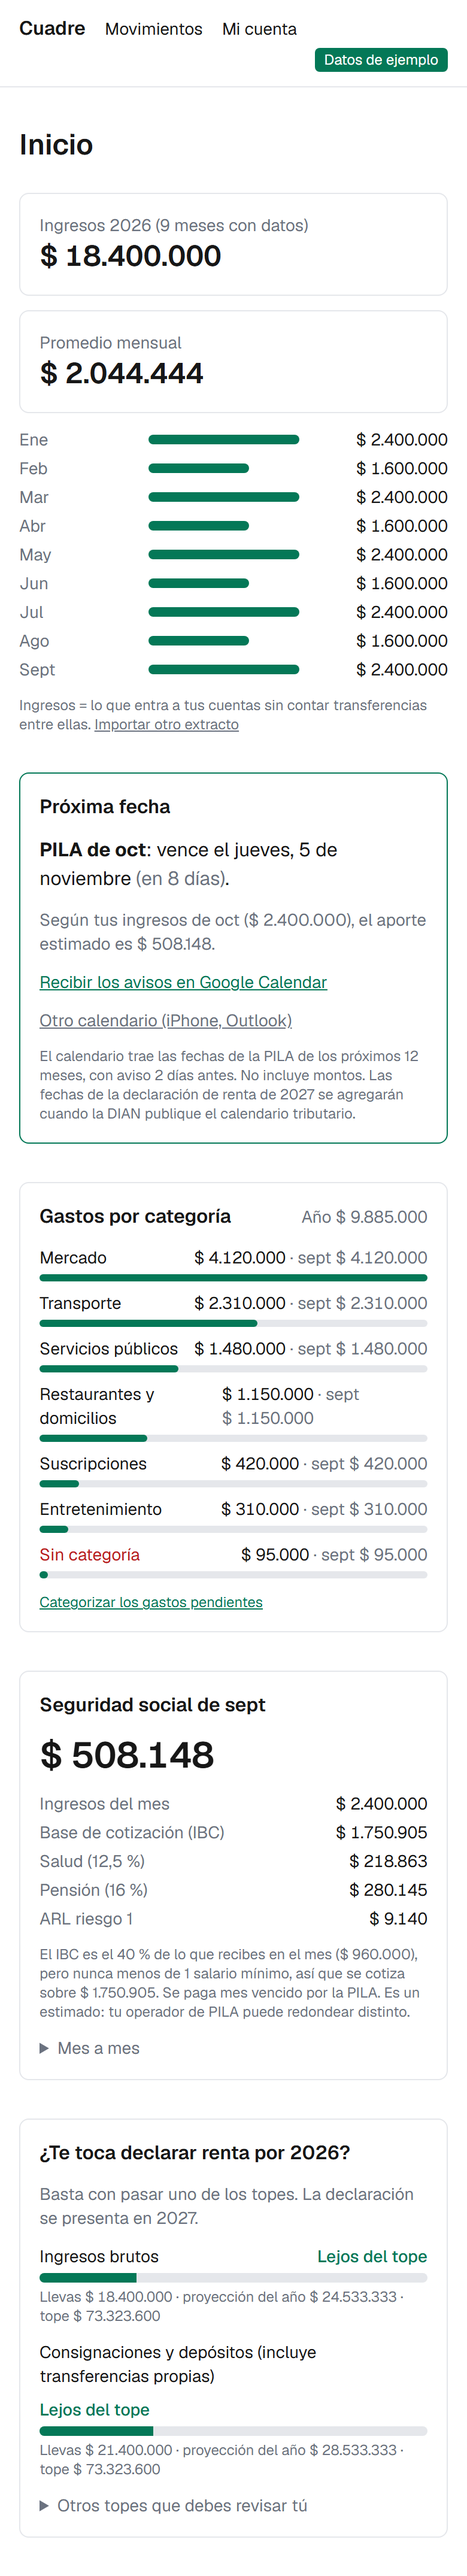
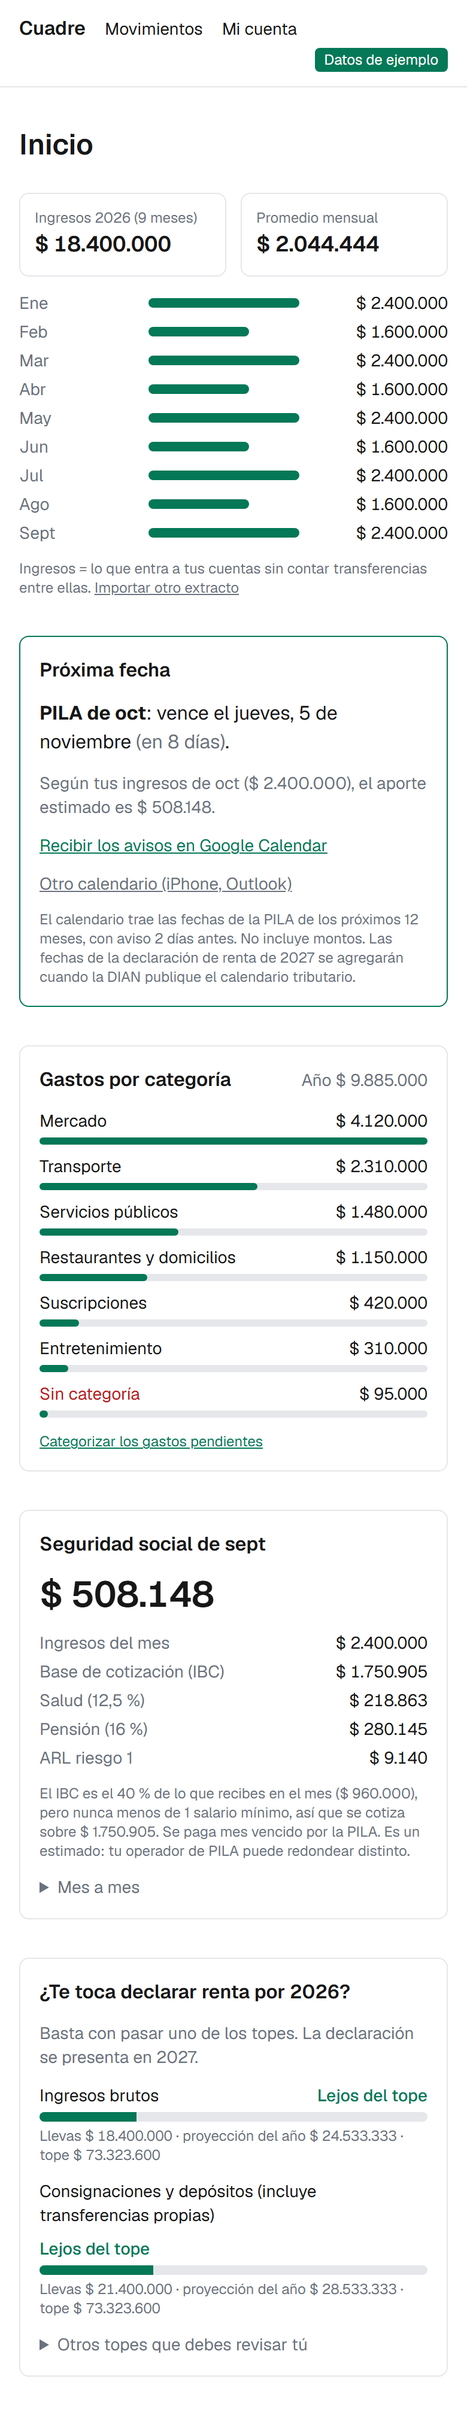
Mejoras para celular
- Movimientos: en el celular, comercio y monto arriba; día y categoría abajo
  (antes el selector aplastaba el nombre del comercio)
- Inicio: totales lado a lado, barras más compactas y sin la cifra del mes en
  gastos por categoría cuando no cabe
- Botón de comentarios solo con ícono en el celular, para no tapar contenido
- fieldset con min-w-0: los campos del onboarding ya no se salen del margen
- Selector de archivo con estilo; capturas del README actualizadas

diff --git a/src/app/(app)/movimientos/page.tsx b/src/app/(app)/movimientos/page.tsx
@@ -59,20 +59,27 @@ async function MovementList() {
             </div>
             <ul className="flex flex-col divide-y divide-border rounded-lg border border-border text-sm">
               {movements.map((m) => (
-                <li key={m.id} className="flex flex-wrap items-center gap-x-3 gap-y-1 px-4 py-2">
-                  <span className="text-muted tabular-nums">{m.occurred_on.slice(8)}</span>
-                  <span className="min-w-0 flex-1 truncate">{m.counterparty ?? "—"}</span>
-                  {m.kind === "expense" && m.counterparty ? (
-                    // La key lo vuelve a montar cuando la categoría cambia en el servidor.
-                    <CategorySelect key={m.category ?? ""} counterparty={m.counterparty} category={m.category} />
-                  ) : (
-                    <span className="text-muted">{m.category ?? KIND_LABELS[m.kind as keyof typeof KIND_LABELS]}</span>
-                  )}
+                // En el celular, dos líneas: comercio y monto arriba; día y categoría abajo.
+                <li
+                  key={m.id}
+                  className="grid grid-cols-[1fr_auto] items-center gap-x-3 gap-y-1 px-4 py-2 sm:grid-cols-[2rem_1fr_auto_auto]"
+                >
+                  <span className="hidden text-muted tabular-nums sm:inline">{m.occurred_on.slice(8)}</span>
+                  <span className="min-w-0 truncate">{m.counterparty ?? "—"}</span>
                   <span
-                    className={`tabular-nums ${m.kind === "own_transfer" ? "text-muted" : m.direction === "in" ? "text-accent" : ""}`}
+                    className={`text-right tabular-nums sm:order-last ${m.kind === "own_transfer" ? "text-muted" : m.direction === "in" ? "text-accent" : ""}`}
                   >
                     {m.direction === "in" ? "+" : "−"}
                     {formatCop(m.amount_cop)}
+                  </span>
+                  <span className="col-span-2 flex min-w-0 items-center gap-2 text-xs sm:col-span-1">
+                    <span className="text-muted tabular-nums sm:hidden">Día {Number(m.occurred_on.slice(8))} ·</span>
+                    {m.kind === "expense" && m.counterparty ? (
+                      // La key lo vuelve a montar cuando la categoría cambia en el servidor.
+                      <CategorySelect key={m.category ?? ""} counterparty={m.counterparty} category={m.category} />
+                    ) : (
+                      <span className="text-muted">{m.category ?? KIND_LABELS[m.kind as keyof typeof KIND_LABELS]}</span>
+                    )}
                   </span>
                 </li>
               ))}

diff --git a/src/app/(app)/inicio/cards.tsx b/src/app/(app)/inicio/cards.tsx
@@ -14,8 +14,8 @@ export function IncomeSection({ year, incomeByMonth }: { year: number; incomeByM
   const maxIncome = Math.max(...incomeByMonth.map((m) => m.income), 1);
   return (
     <section className="flex flex-col gap-3">
-      <div className="grid gap-3 sm:grid-cols-2">
-        <Stat label={`Ingresos ${year} (${months.length} ${months.length === 1 ? "mes" : "meses"} con datos)`} value={formatCop(incomeYtd)} />
+      <div className="grid grid-cols-2 gap-3">
+        <Stat label={`Ingresos ${year} (${months.length} ${months.length === 1 ? "mes" : "meses"})`} value={formatCop(incomeYtd)} />
         <Stat label="Promedio mensual" value={formatCop(Math.round(incomeYtd / months.length))} />
       </div>
       <ul className="flex flex-col gap-1 text-sm">
@@ -125,7 +125,10 @@ export function ExpensesCard({
               <span className={category === UNCATEGORIZED ? "text-danger" : ""}>{category}</span>
               <span className="tabular-nums">
                 {formatCop(total)}
-                <span className="text-muted"> · {lastMonthLabel.toLowerCase()} {formatCop(month.get(category) ?? 0)}</span>
+                <span className="hidden text-muted sm:inline">
+                  {" "}
+                  · {lastMonthLabel.toLowerCase()} {formatCop(month.get(category) ?? 0)}
+                </span>
               </span>
             </div>
             <div className="h-1.5 rounded bg-border">
@@ -296,9 +299,9 @@ export function Sources({ sources }: { sources: { key: string; norm: string; url
 
 export function Stat({ label, value }: { label: string; value: string }) {
   return (
-    <div className="rounded-lg border border-border p-4">
-      <p className="text-sm text-muted">{label}</p>
-      <p className="text-2xl font-semibold tabular-nums">{value}</p>
+    <div className="rounded-lg border border-border p-3 sm:p-4">
+      <p className="text-xs text-muted sm:text-sm">{label}</p>
+      <p className="text-lg font-semibold tabular-nums sm:text-2xl">{value}</p>
     </div>
   );
 }

diff --git a/src/app/(app)/onboarding/onboarding-form.tsx b/src/app/(app)/onboarding/onboarding-form.tsx
@@ -24,7 +24,7 @@ export function OnboardingForm({ defaults }: { defaults: OnboardingDefaults }) {
 
   return (
     <form action={action} className="flex flex-col gap-6">
-      <fieldset className="flex flex-col gap-4">
+      <fieldset className="min-w-0 flex flex-col gap-4">
         <legend className="mb-2 font-semibold">Tu situación</legend>
         <Field label="¿Cómo trabajas?" error={e.workerType}>
           <Select name="workerType" defaultValue={defaults.workerType} required>
@@ -59,7 +59,7 @@ export function OnboardingForm({ defaults }: { defaults: OnboardingDefaults }) {
         </Field>
       </fieldset>
 
-      <fieldset className="flex flex-col gap-4">
+      <fieldset className="min-w-0 flex flex-col gap-4">
         <legend className="mb-2 font-semibold">Lo que es tuyo</legend>
         <p className="text-sm text-muted">
           Con esto reconocemos cuándo mueves plata entre tus propias cuentas, para no contarlo como
@@ -88,7 +88,7 @@ export function OnboardingForm({ defaults }: { defaults: OnboardingDefaults }) {
         </div>
       </fieldset>
 
-      <fieldset className="flex flex-col gap-3 text-sm">
+      <fieldset className="min-w-0 flex flex-col gap-3 text-sm">
         <legend className="mb-2 font-semibold">Tus datos</legend>
         <label className="flex items-start gap-2">
           <input type="checkbox" name="privacyAccepted" defaultChecked={defaults.privacyAccepted} required className="mt-1" />

diff --git a/src/components/feedback-button.tsx b/src/components/feedback-button.tsx
@@ -47,9 +47,18 @@ export function FeedbackButton() {
       <button
         onClick={() => setOpen((o) => !o)}
         aria-expanded={open}
-        className="rounded-full border border-border bg-background px-4 py-2 text-sm shadow-md"
+        aria-label={open ? "Cerrar comentarios" : "Enviar comentarios"}
+        className="flex items-center gap-2 rounded-full border border-border bg-background p-3 text-sm shadow-md sm:px-4 sm:py-2"
       >
-        {open ? "Cerrar" : "Comentarios"}
+        {/* En el celular solo el ícono, para no tapar el contenido. */}
+        <svg width="18" height="18" viewBox="0 0 24 24" fill="none" stroke="currentColor" strokeWidth="2" aria-hidden="true">
+          {open ? (
+            <path d="M6 6l12 12M18 6L6 18" strokeLinecap="round" />
+          ) : (
+            <path d="M21 12a8 8 0 0 1-11.6 7.1L4 20l1-4.6A8 8 0 1 1 21 12z" strokeLinejoin="round" />
+          )}
+        </svg>
+        <span className="hidden sm:inline">{open ? "Cerrar" : "Comentarios"}</span>
       </button>
     </div>
   );

diff --git a/src/app/(app)/importar/statement-importer.tsx b/src/app/(app)/importar/statement-importer.tsx
@@ -159,7 +159,7 @@ function Preview({
       </div>
 
       {(count("wallet_transfer") > 0 || personNames.length > 0) && (
-        <fieldset className="flex flex-col gap-3 rounded-lg border border-border p-4 text-sm">
+        <fieldset className="min-w-0 flex flex-col gap-3 rounded-lg border border-border p-4 text-sm">
           <legend className="px-1 font-semibold">¿Cuáles van a tus propias cuentas?</legend>
           <p className="text-muted">Lo que marques no cuenta como gasto: es plata que mueves entre tus cuentas.</p>
           {count("wallet_transfer") > 0 && (

diff --git a/src/components/ui.tsx b/src/components/ui.tsx
@@ -24,7 +24,8 @@ export function Field({
 }
 
 const control =
-  "rounded-md border border-border bg-background px-3 py-2 text-base outline-none focus:ring-2 focus:ring-accent";
+  "w-full min-w-0 rounded-md border border-border bg-background px-3 py-2 text-base outline-none focus:ring-2 focus:ring-accent " +
+  "file:mr-3 file:rounded file:border-0 file:bg-accent file:px-3 file:py-1 file:font-medium file:text-white dark:file:text-black";
 
 export function Input(props: ComponentProps<"input">) {
   return <input {...props} className={control} />;

diff --git a/src/app/(app)/layout.tsx b/src/app/(app)/layout.tsx
@@ -17,7 +17,7 @@ export default function AppLayout({ children }: LayoutProps<"/">) {
           </form>
         </nav>
       </header>
-      <main className="mx-auto flex w-full max-w-3xl flex-1 flex-col gap-6 px-4 py-8 pb-20">{children}</main>
+      <main className="mx-auto flex w-full max-w-3xl flex-1 flex-col gap-6 px-4 py-8 pb-24">{children}</main>
       <FeedbackButton />
     </div>
   );
